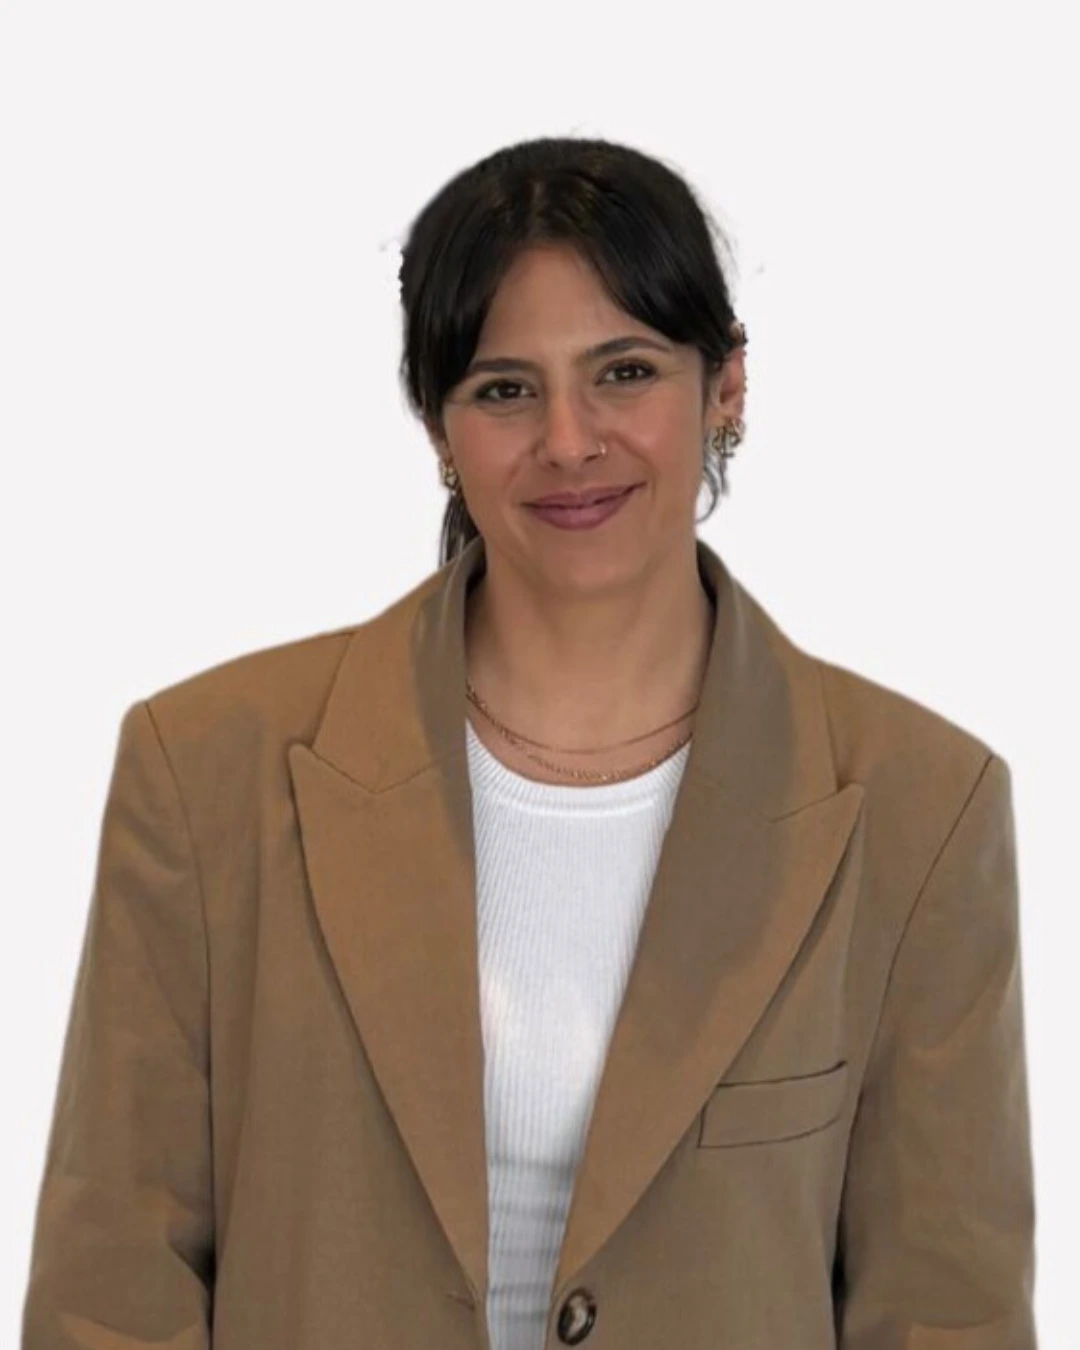
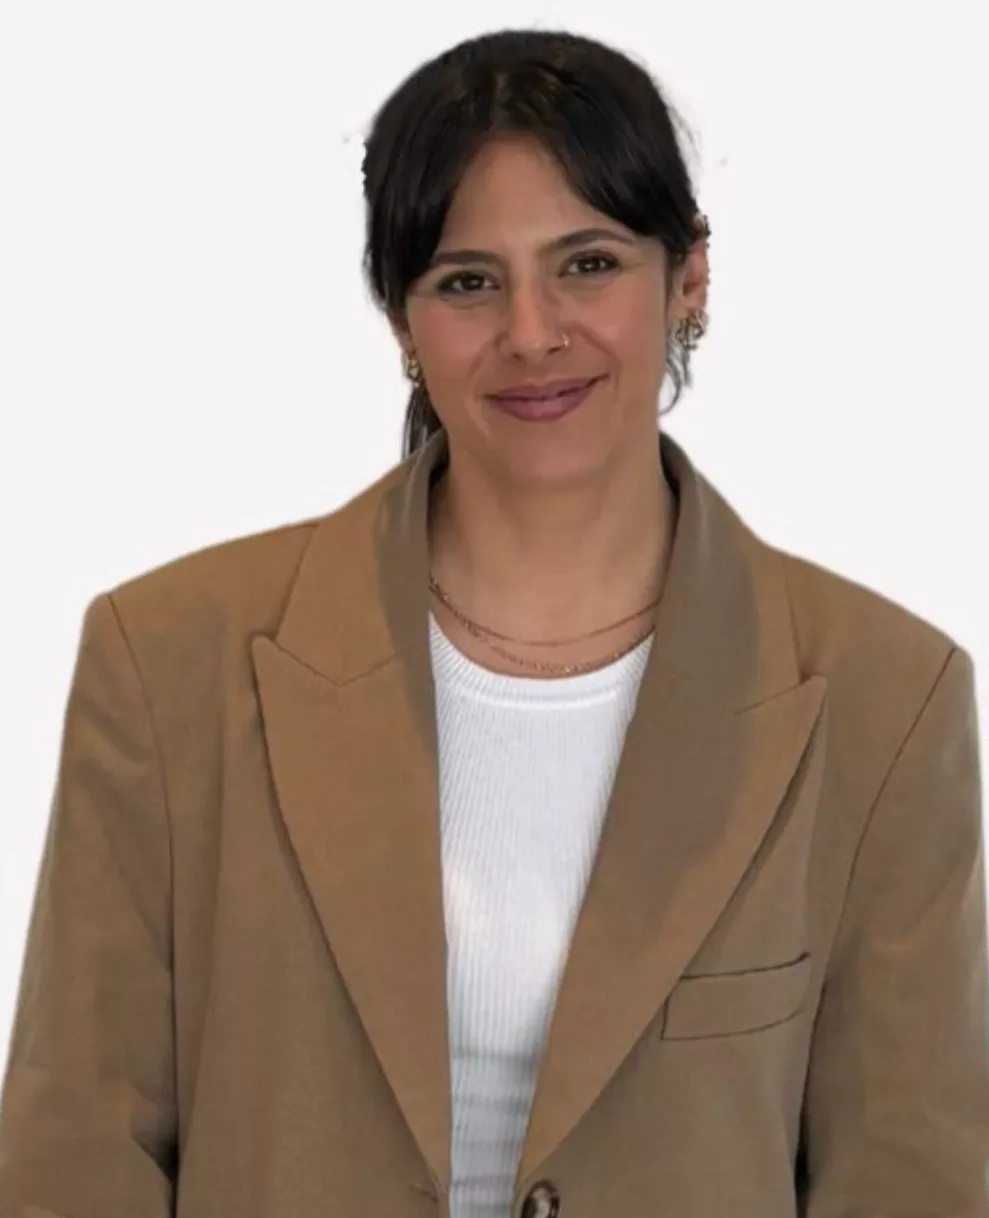
more updates to page

diff --git a/layouts/custom/naturopath.html b/layouts/custom/naturopath.html
@@ -25,7 +25,7 @@
              <div class="col-lg-5 col-12 pe-lg-5 ">
                 <img src="/img/meetjordana.webp" alt="jordana" >
             </div>
-            <div class="col-lg-6 col-12 pe-lg-5 pt-lg-5 aboutus-header">       
+            <div class="col-lg-6 col-12 pe-lg-5 pt-lg-5">       
                 <h2 class="heading-title">Meet our Primal Pantry
 Naturopath Jordana</h2>
                     <p class="fs-4 mt-lg-4">Ready to help you with your skincare
@@ -34,9 +34,9 @@ Journey </p>
             </div>
            
         </div>
-        <div class="row px-lg-5">
+        <div class="row px-lg-5 mt-3">
             
-            <div class="col-lg-6 col-12 pe-lg-5 pt-lg-5 aboutus-header">       
+            <div class="col-lg-6 col-12 pe-lg-5 pt-lg-5">       
                 <h2 class="heading-title">A bit about Jordana</h2>
                     <p class="fs-4 mt-lg-4">
 I’m a naturopath, nutritionist, and herbalist with a special
@@ -52,8 +52,8 @@ and long-term results.
 
 </p>
             </div>
-             <div class="col-lg-6 col-12 ">
-                <img src="/img/jordana.webp" alt="jordana" >
+             <div class="col-lg-6 col-12 text-center">
+                <img src="/img/jordana.webp" alt="jordana" style="max-height: 650px;">
             </div>
            
         </div>
